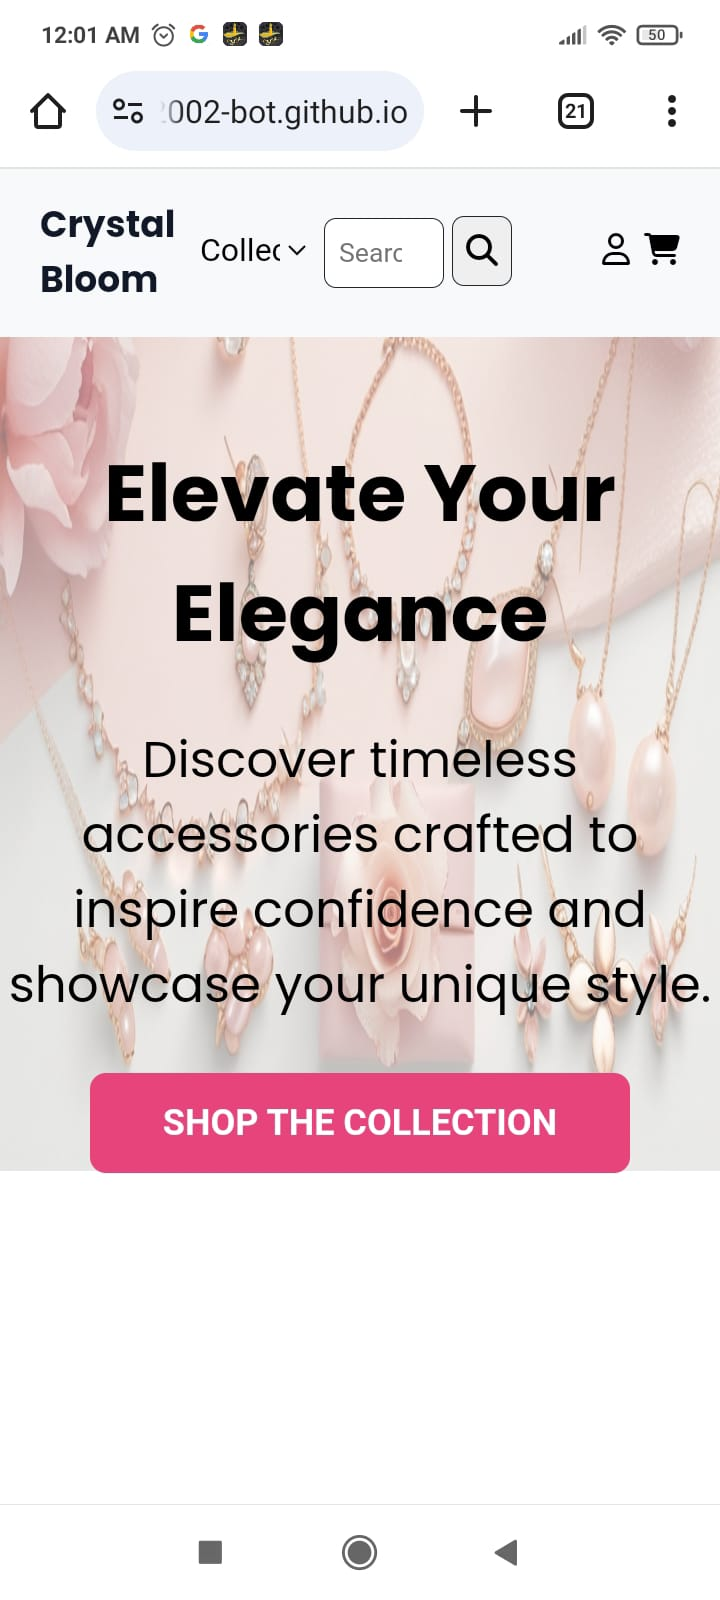
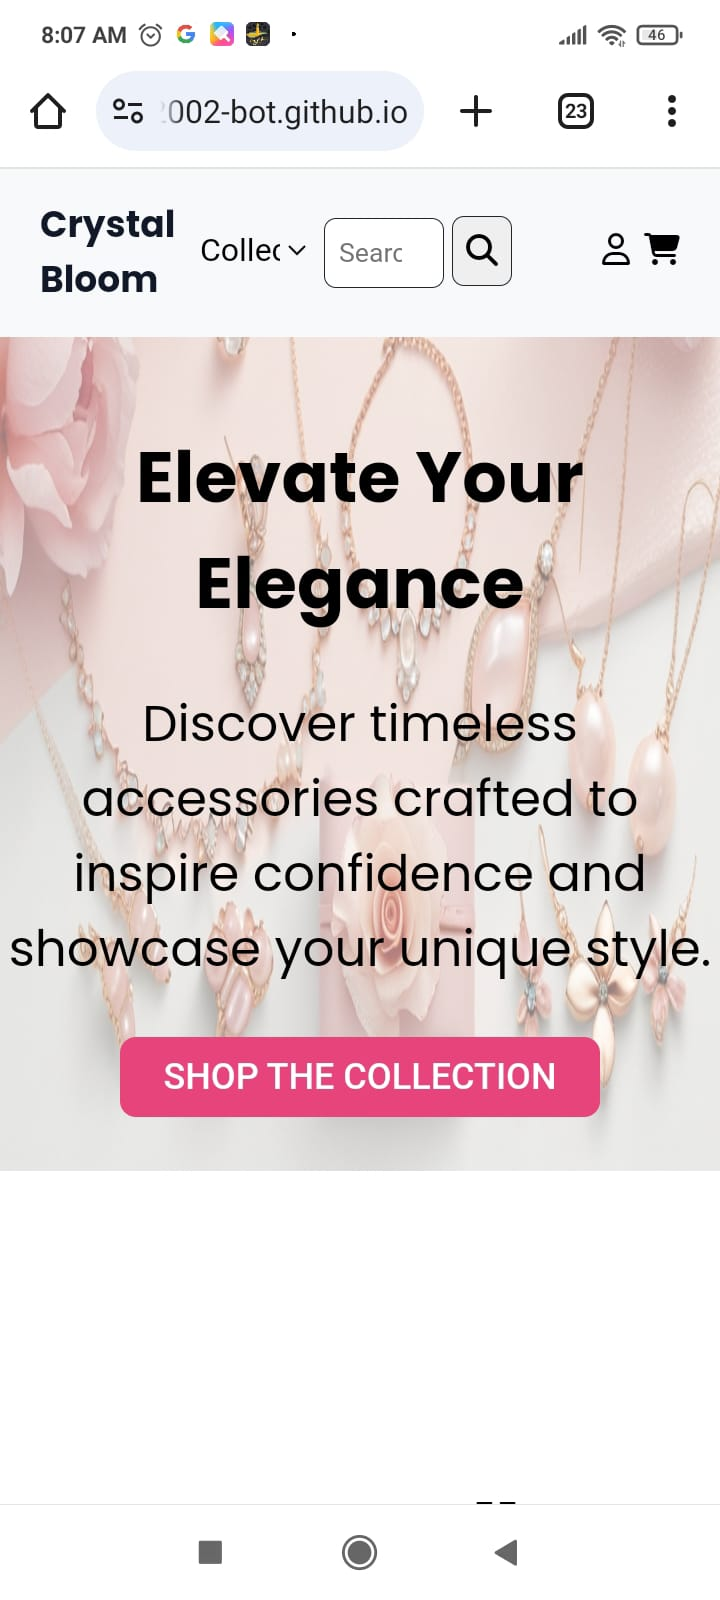
adding the new screenshot

Changed region(s): [[0.0, 0.2812, 0.9778, 0.75], [0.0611, 0.0, 0.3972, 0.0312]]

diff --git a/styles.css b/styles.css
@@ -251,7 +251,10 @@ footer ul{
         font-size: medium;
     }
     .heroSection .content{
-        padding-top:100px;
+        padding-top:130px;
+    }
+    .heroSection p{
+        font-size:18px;
     }
     .heroSection h1{
         font-size:35px;
@@ -259,7 +262,7 @@ footer ul{
     }
     .heroSection img{
         width:100%;
-        height:75%;
+        height:65%;
     }
     .heroSection .title{
         text-align: center;
